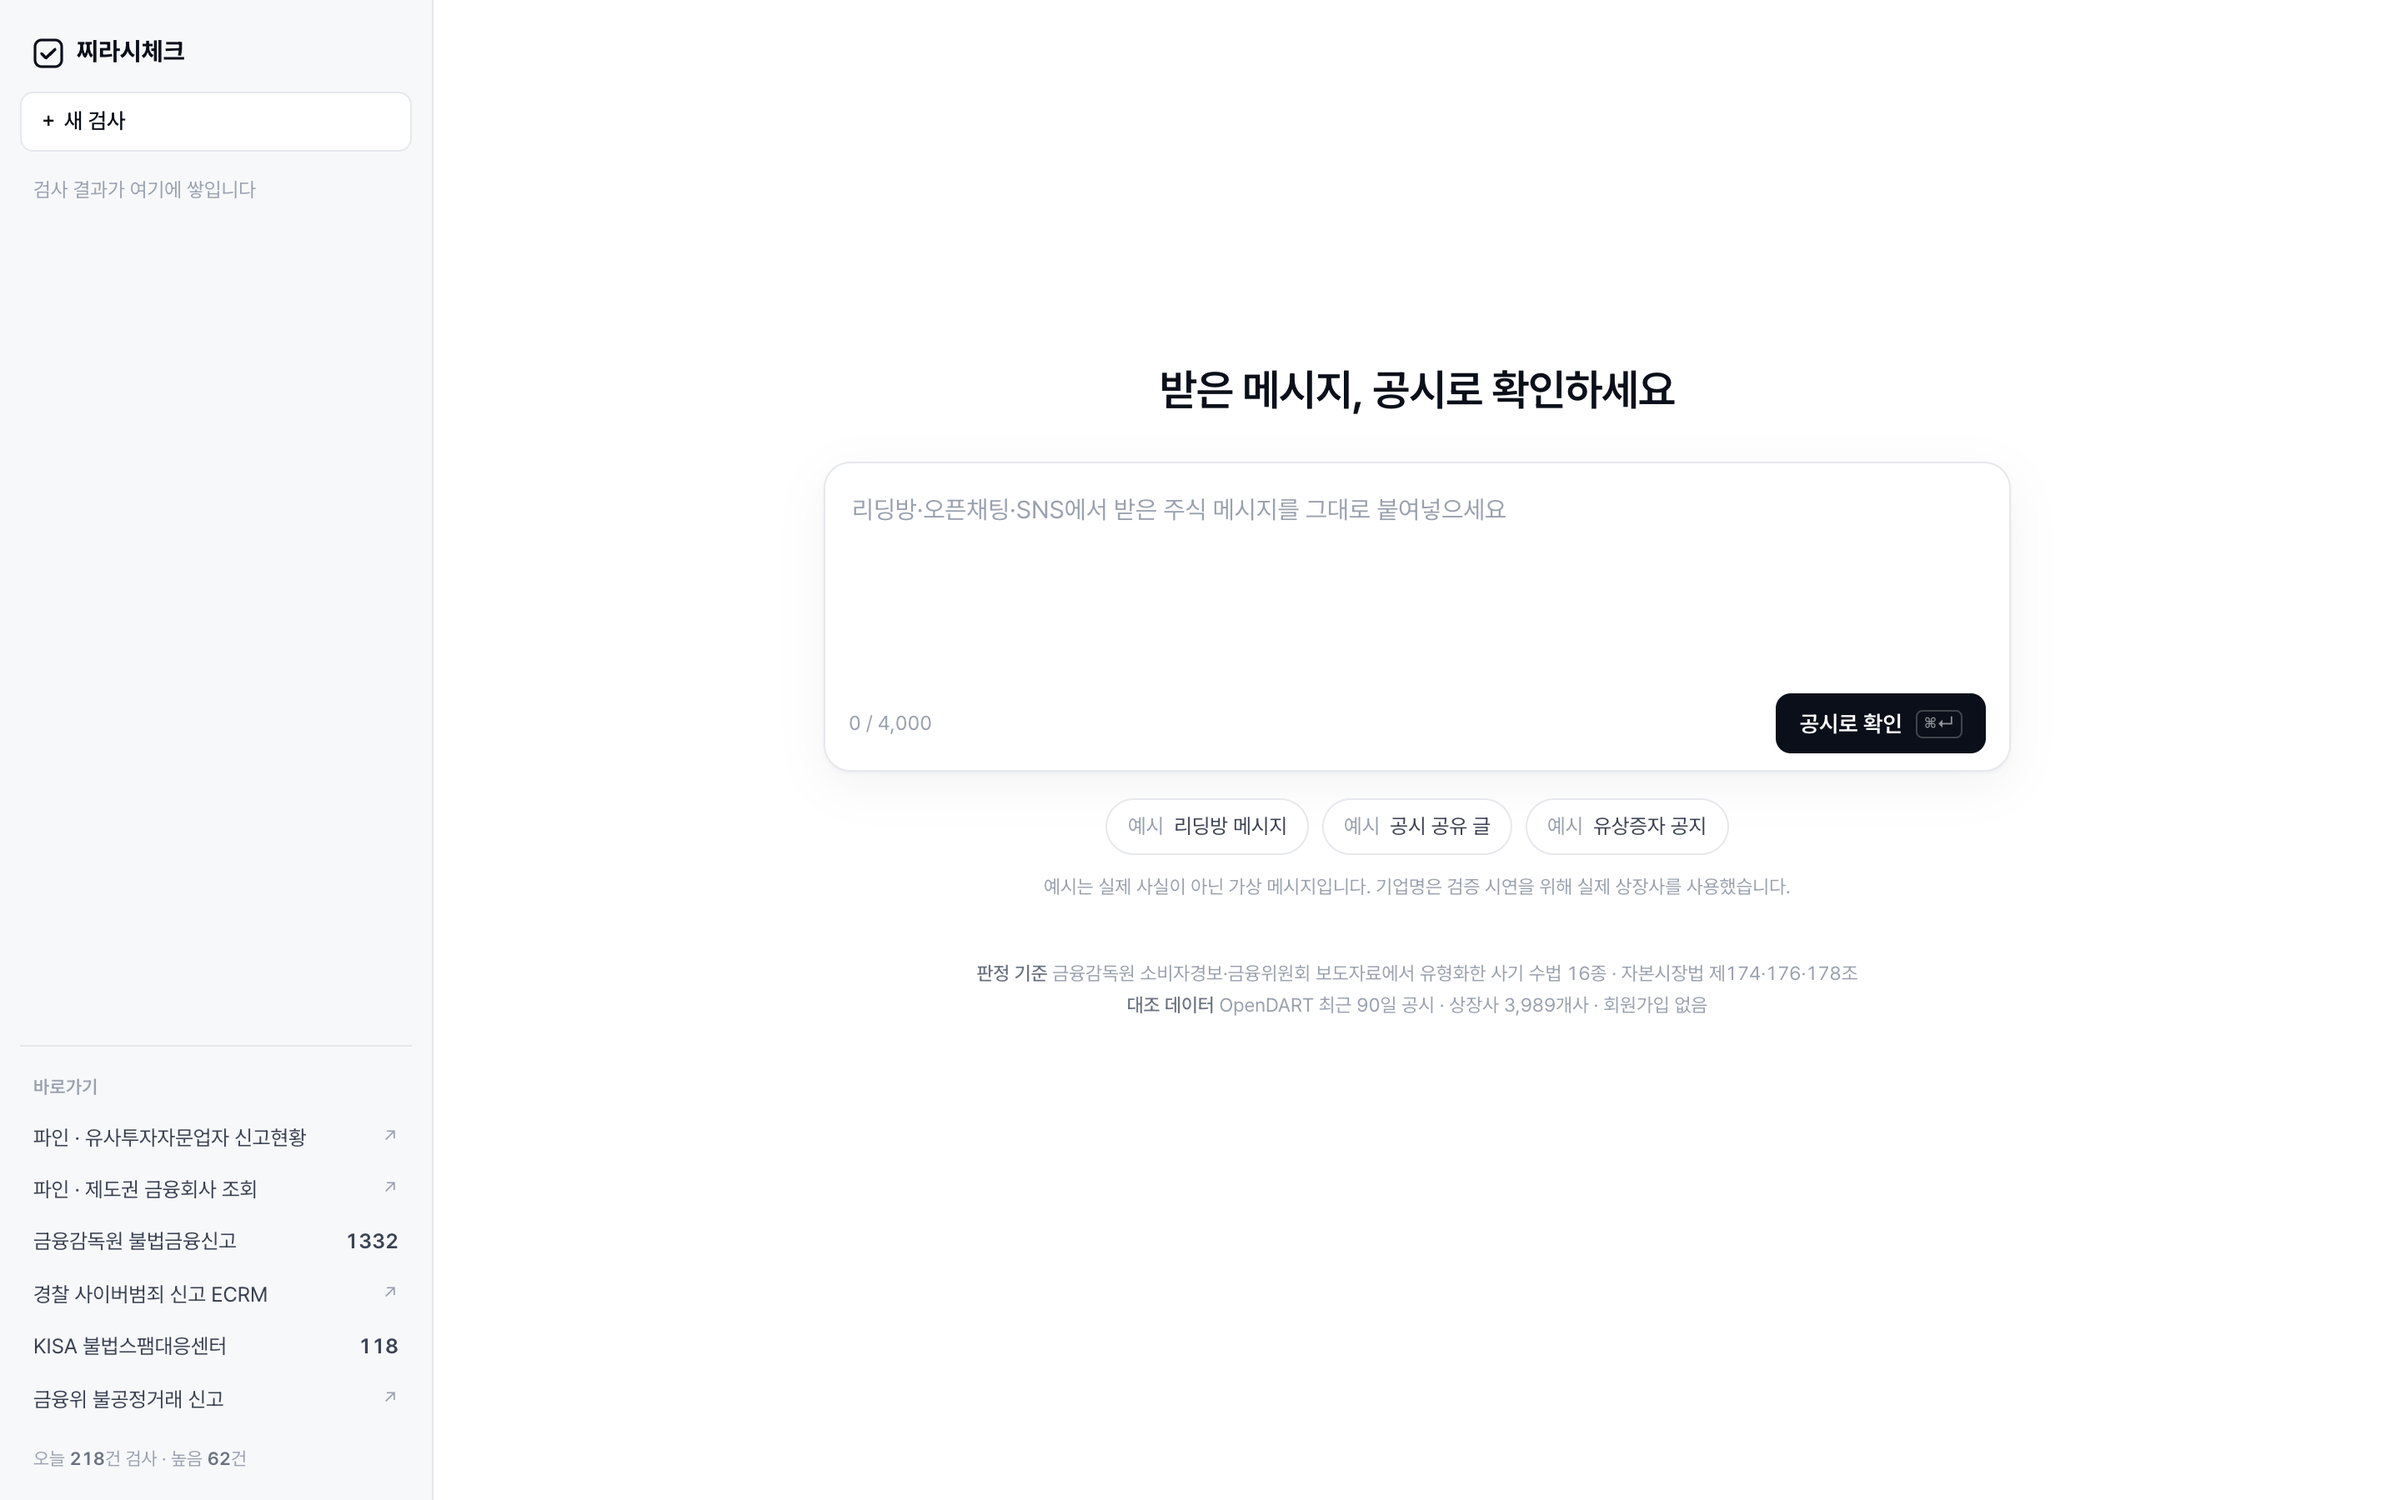
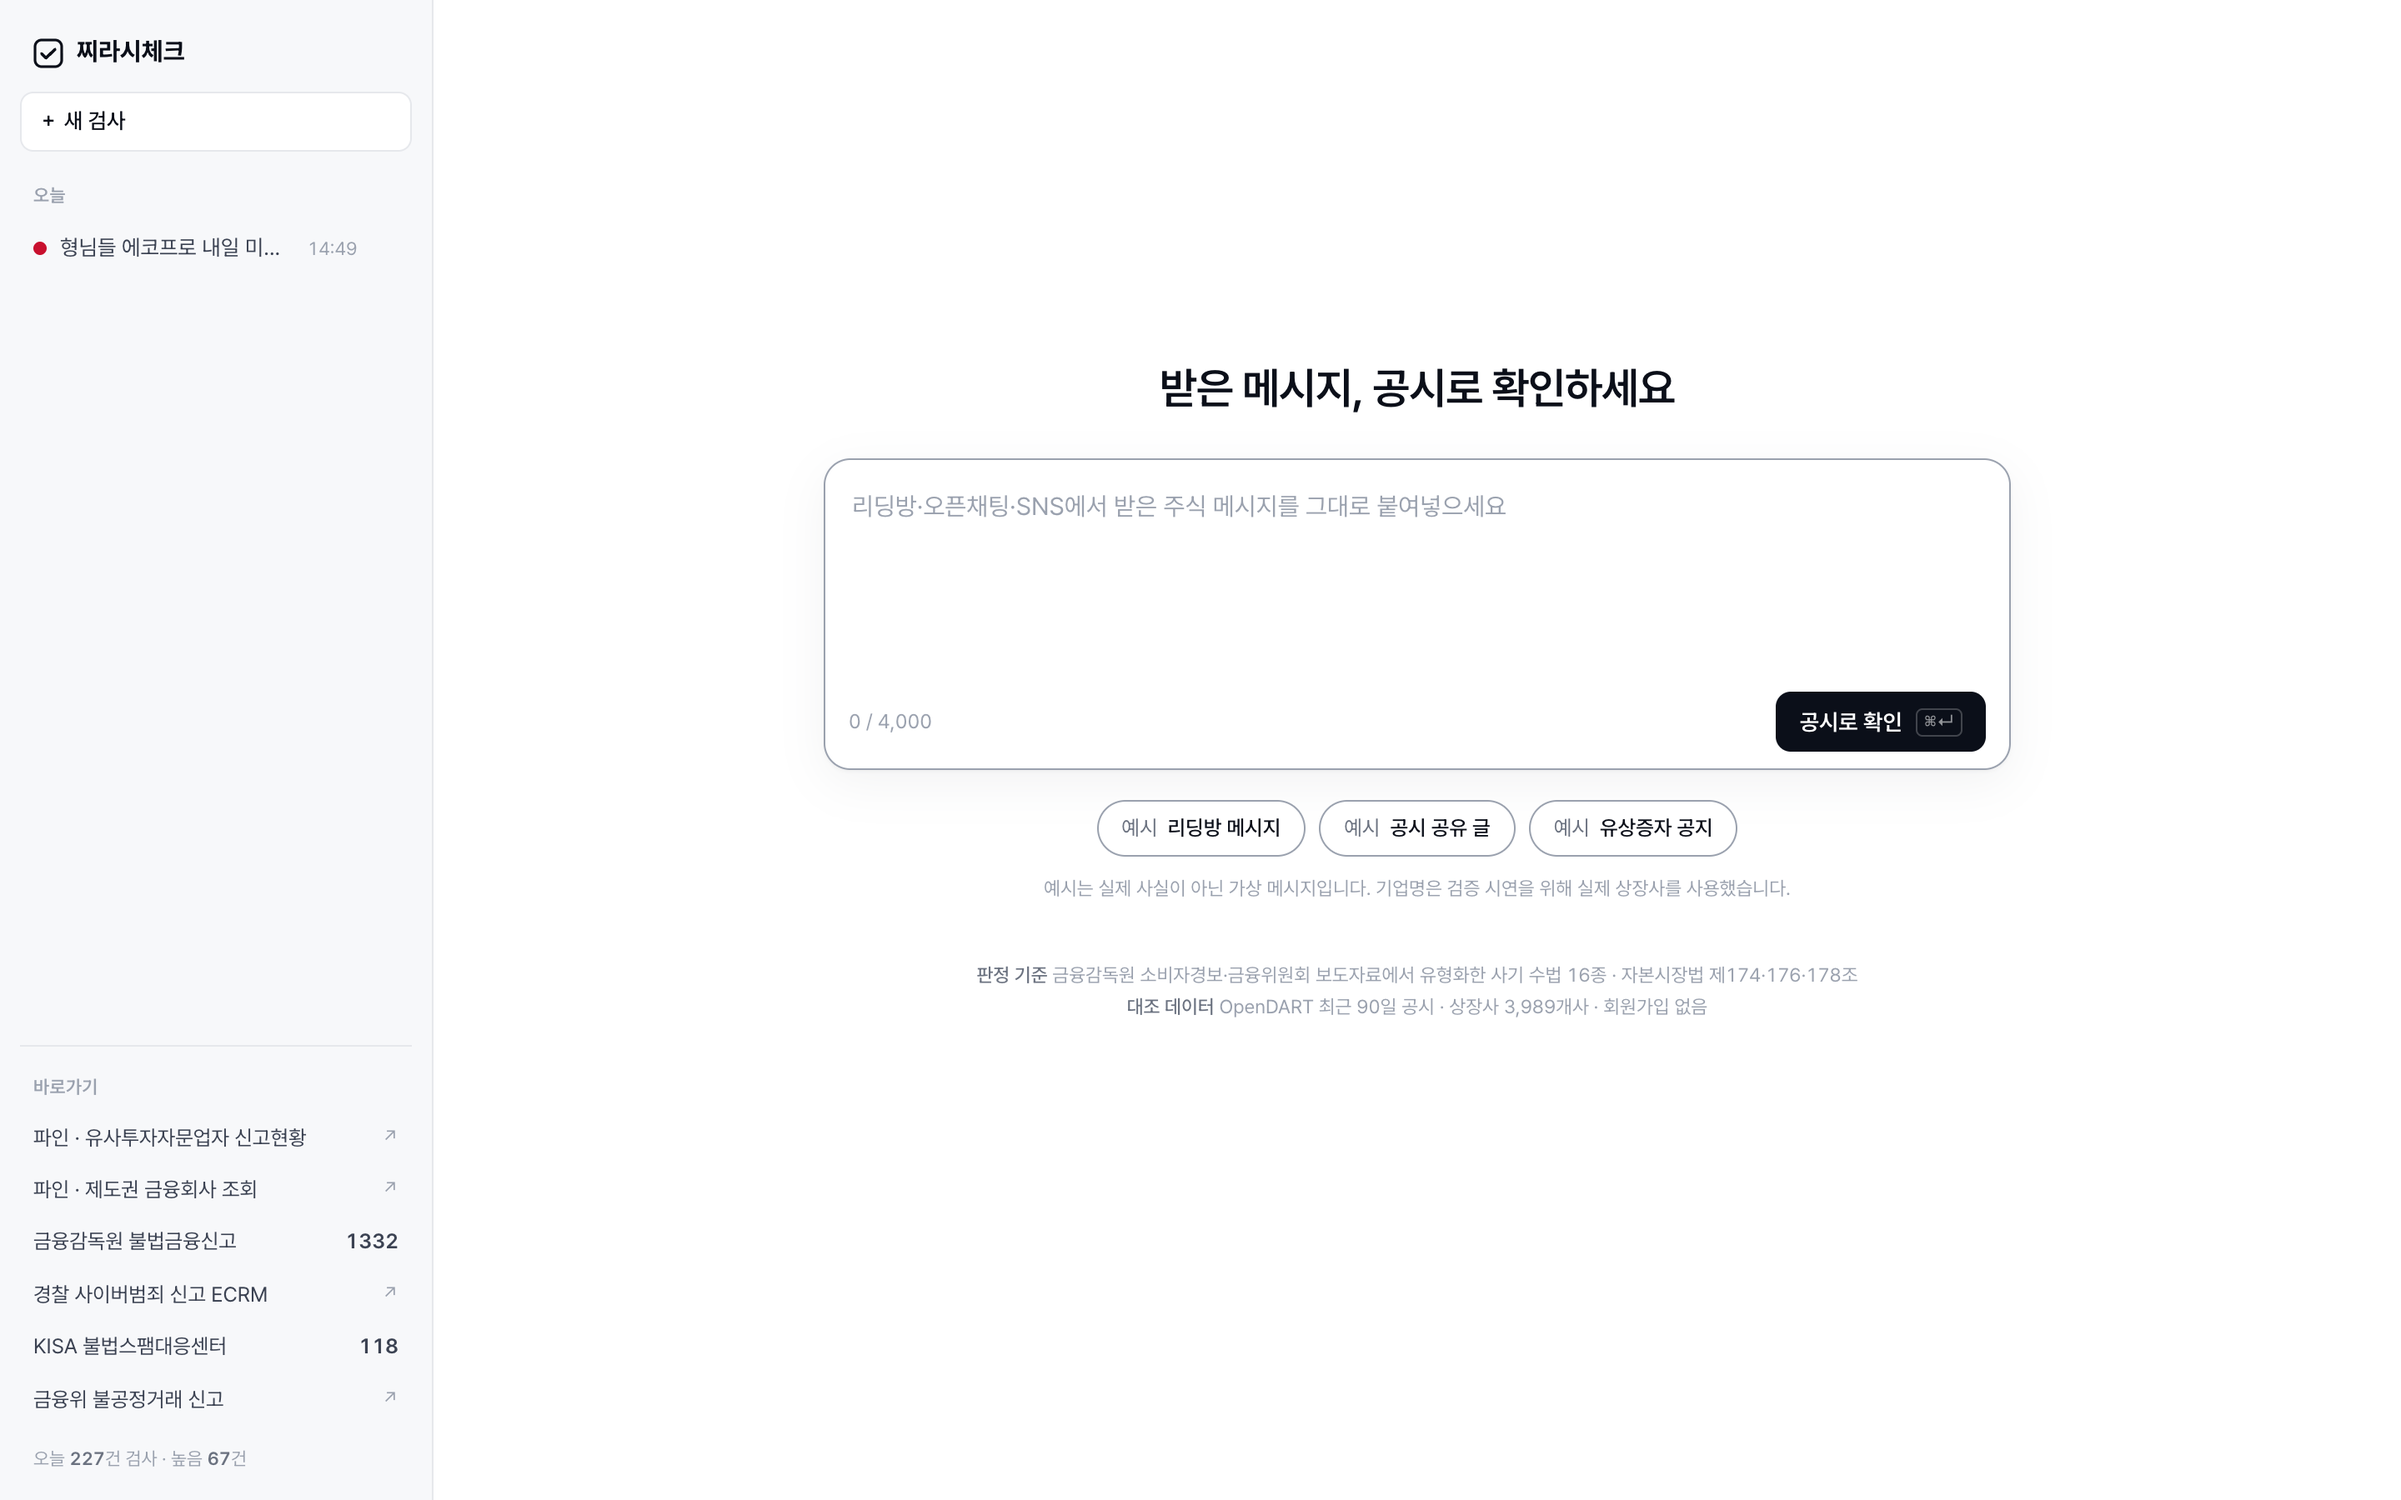
ui: 로고 클릭 → 홈(사이드바 .brand·모바일 .mlogo 버튼, 새 검사와 동일 동작), 예시 칩 가시성(테두리 --ink-4→hover --ink-2, 글자 --ink 500, 34px, 위 여백 18px)

diff --git a/app/globals.css b/app/globals.css
@@ -52,10 +52,10 @@ h1,h2,h3{margin:0;font-weight:600;letter-spacing:-.01em}
 .send{height:36px;padding:0 14px;border-radius:9px;background:var(--ink);color:#fff;font-weight:600;font-size:13.5px;display:inline-flex;align-items:center;gap:8px}
 .send:hover{background:#1c2130}
 .send kbd{font:inherit;font-size:10.5px;color:rgba(255,255,255,.55);border:1px solid rgba(255,255,255,.22);border-radius:4px;padding:0 4px;line-height:15px}
-.chips{display:flex;flex-wrap:wrap;gap:8px;justify-content:center;margin-top:16px}
-.chip{border:1px solid var(--line);border-radius:999px;padding:6px 12px;font-size:12.5px;color:var(--ink-2);background:#fff}
-.chip:hover{border-color:var(--ink-4);color:var(--ink)}
-.chip span{color:var(--ink-4);margin-right:6px}
+.chips{display:flex;flex-wrap:wrap;gap:8px;justify-content:center;margin-top:18px}
+.chip{display:inline-flex;align-items:center;height:34px;border:1px solid var(--ink-4);border-radius:999px;padding:7px 14px;font-size:12.5px;font-weight:500;color:var(--ink);background:#fff}
+.chip:hover{border-color:var(--ink-2);background:var(--bg-2);color:var(--ink)}
+.chip span{color:var(--ink-3);font-weight:400;margin-right:6px}
 .basis{text-align:center;font-size:11.5px;color:var(--ink-4);margin-top:22px;line-height:1.7}
 .basis b{color:var(--ink-3);font-weight:500}
 
@@ -144,6 +144,9 @@ ol.todo li::before{content:counter(s);position:absolute;left:0;top:8px;width:16p
 /* 입력 오류·예시 고지 */
 .err{color:var(--hi);font-size:12.5px;text-align:center;margin-top:10px}
 .chipsnote{text-align:center;font-size:11.5px;color:var(--ink-4);margin-top:10px;line-height:1.6}
+/* 로고 클릭 → 홈 (사이드바 .brand, 모바일 .mbar .mlogo) */
+button.brand{width:100%;text-align:left;cursor:pointer;color:var(--ink)} button.brand:hover{opacity:.8}
+.mbar .mlogo{font-weight:700;font-size:inherit;padding:8px 4px;cursor:pointer;color:var(--ink)} .mbar .mlogo:hover{opacity:.8}
 /* 다시 검사 링크 */
 .meta .more{display:inline-block}
 /* 모바일 드로어: 사이드바를 좌측 고정 패널로, 바깥 스크림 클릭 시 닫힘 */

diff --git a/app/check-app.tsx b/app/check-app.tsx
@@ -86,15 +86,15 @@ function grow(el: HTMLTextAreaElement, max: number) {
   el.style.height = `${Math.min(el.scrollHeight, max)}px`;
 }
 
-function Brand() {
+function Brand({ onClick }: { onClick: () => void }) {
   return (
-    <div className="brand">
+    <button type="button" className="brand" onClick={onClick} aria-label="찌라시체크 홈으로">
       <svg viewBox="0 0 18 18" fill="none" aria-hidden="true">
         <rect x="1" y="1" width="16" height="16" rx="4" stroke="currentColor" strokeWidth="1.6" />
         <path d="M5 9.2l2.6 2.6L13 6.6" stroke="currentColor" strokeWidth="1.8" strokeLinecap="round" strokeLinejoin="round" />
       </svg>
       찌라시체크
-    </div>
+    </button>
   );
 }
 
@@ -321,7 +321,7 @@ export default function CheckApp({ contacts, disclaimer, weights }: { contacts: 
     <div className="app">
       {drawer && <button type="button" className="scrim" aria-label="메뉴 닫기" onClick={() => setDrawer(false)} />}
       <aside className={`side${drawer ? ' open' : ''}`} id="side" aria-label="사이드바">
-        <Brand />
+        <Brand onClick={newCheck} />
         <button type="button" className="newbtn" onClick={newCheck}>＋ 새 검사</button>
         <div className="hist" aria-label="검사 이력">
           {history.length === 0 ? (
@@ -363,7 +363,7 @@ export default function CheckApp({ contacts, disclaimer, weights }: { contacts: 
           <button type="button" className="hb" aria-label="메뉴 열기" aria-expanded={drawer} aria-controls="side" onClick={() => setDrawer(true)}>
             <i /><i /><i />
           </button>
-          찌라시체크
+          <button type="button" className="mlogo" onClick={newCheck} aria-label="찌라시체크 홈으로">찌라시체크</button>
         </div>
 
         {!result ? (
